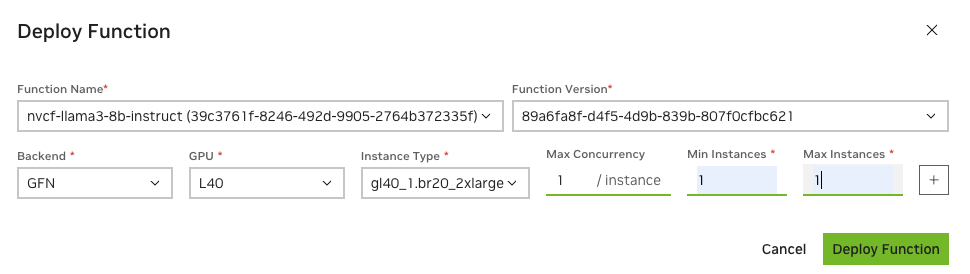
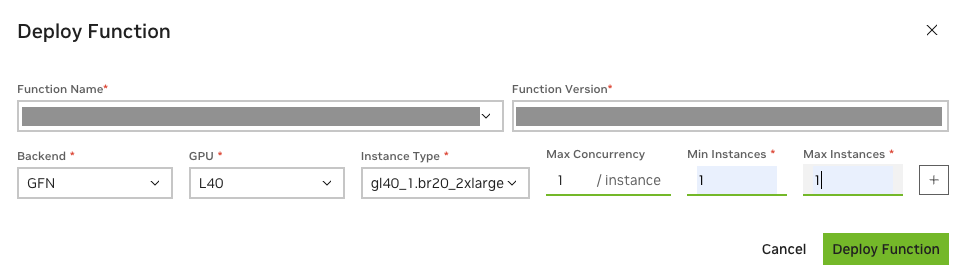
update nvcf_test notebook with correct LangChain example, mark function name/id in the pictures

Changed region(s): [[0.0, 0.3796, 0.4948, 0.4672], [0.5258, 0.3796, 0.9897, 0.4672]]

diff --git a/cloud-service-providers/nvidia/nvcf/README.md b/cloud-service-providers/nvidia/nvcf/README.md
@@ -1,6 +1,6 @@
 # Deploy NIM to NVCF
 ## 1. NVCF Introduction
-[NVCF](https://docs.nvidia.com/cloud-functions/index.html)(Nvidia Cloud Functions) is a serverless API to deploy & manage AI workloads on GPUs, which provides security, scale and reliability to your workloads. The API to access the workloads is un-opinionated and supports HTTP polling, HTTP streaming & gRPC. NVCF is primarily suited for shorter running, preemptable workloads such as inferencing and fine-tuning.
+[NVCF](https://docs.nvidia.com/cloud-functions/index.html)(NVIDIA Cloud Functions) is a serverless API to deploy & manage AI workloads on GPUs, which provides security, scale and reliability to your workloads. The API to access the workloads is un-opinionated and supports HTTP polling, HTTP streaming & gRPC. NVCF is primarily suited for shorter running, preemptable workloads such as inferencing and fine-tuning.
 
 NVCF is available via the [NGC Portal](https://ngc.nvidia.com/).
 
